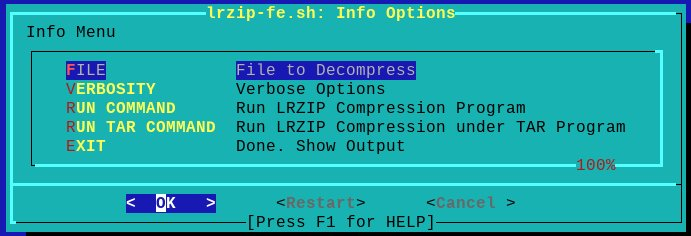
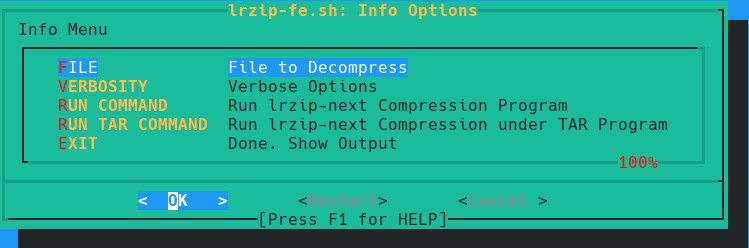
Update for hash and encryption choices. bzip3. screenshots.

diff --git a/README.md b/README.md
@@ -2,6 +2,7 @@
 
 usage: `lrzip-fe.sh`  
 Output: A command line you can cut and paste and use
+Run: lrzip/lrzip-next can be run from inside the program
 
 ## About
 
@@ -12,7 +13,7 @@ As options grew, so did complexity. At first I came up with the
 idea of a configuration file that would be loaded with pre-set
 options at run-time. This proved very useful to those who
 discovered it! But many users do not use a configuration file for
-lrzip.
+lrzip/lrzip-next.
 
 lrzip-fe presents a series of cascading menus and choices to help
 users fully explore the capabilities of:
@@ -25,12 +26,12 @@ users fully explore the capabilities of:
 
 ![Main lrzip-fe.sh screen](screenshots/01-main-screen.jpg)
 
-Thats's really all there is to lrzip -- that is until you peek
+Thats's really all there is to lrzip/lrzip-next -- that is until you peek
 under the hood.
 
 ## Thus, lrzip-fe
 
-Version 0.7x of **lrzip-next** has 39 options. Some are mutually
+Version 0.9x of **lrzip-next** has 46 options. Some are mutually
 exclusive, (such as `-O and -o`), other can be combined, but only
 in some modes. (see file `lrzip.options.txt`)
 
@@ -90,11 +91,11 @@ will have the extension `.tar.lrz`
 
 ## Usage Examples
 
-If `lrzip` is not run using the **RUN COMMAND** or **RUN TAR
+If `lrzip-next` is not run using the **RUN COMMAND** or **RUN TAR
 COMMAND** options, a command has been constructed with
-`lrzip-fe.sh`, `lrzip` can be executed one of three ways.
-1. just cut and paste the `lrzip command`
-2. prepend the `lrzip command` with `LRZIP=NOCONFIG` to ignore
+`lrzip-fe.sh`, `lrzip-next` can be executed one of three ways.
+1. just cut and paste the `lrzip-next command`
+2. prepend the `lrzip-next command` with `LRZIP=NOCONFIG` to ignore
    any preset options in `lrzip.conf`
 3. cut and paste the `tar` command
 
@@ -108,9 +109,15 @@ sections of a menu. **Cursor** keys moves between choices
 **SPACE** selects an item within a **checkbox** or **radiolist**.
 There may be some other quirks about selection.
 
+## Acknowledgements
+Con Kolivas **lrzip**
+Thomas Dickey **dialog**
+Andrew Tridgell **rzip**
+
 Your comments and contributions are welcome.
 
 October 2020  
+December 2022  
 Peter Hyman, pete@peterhyman.com  
 https://github.com/pete4abw/lrzip-fe  
 https://github.com/pete4abw/lrzip-next  
